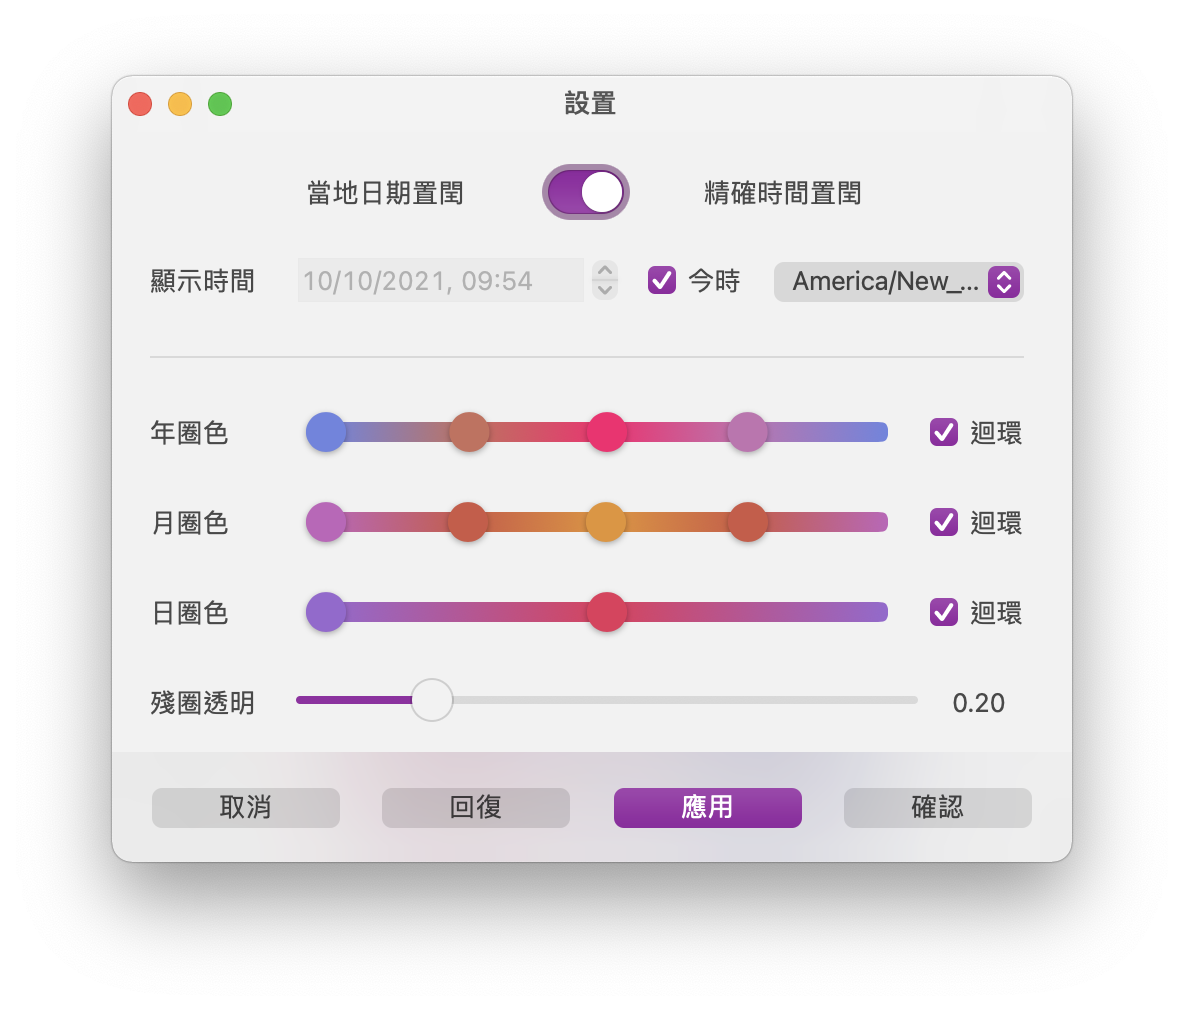
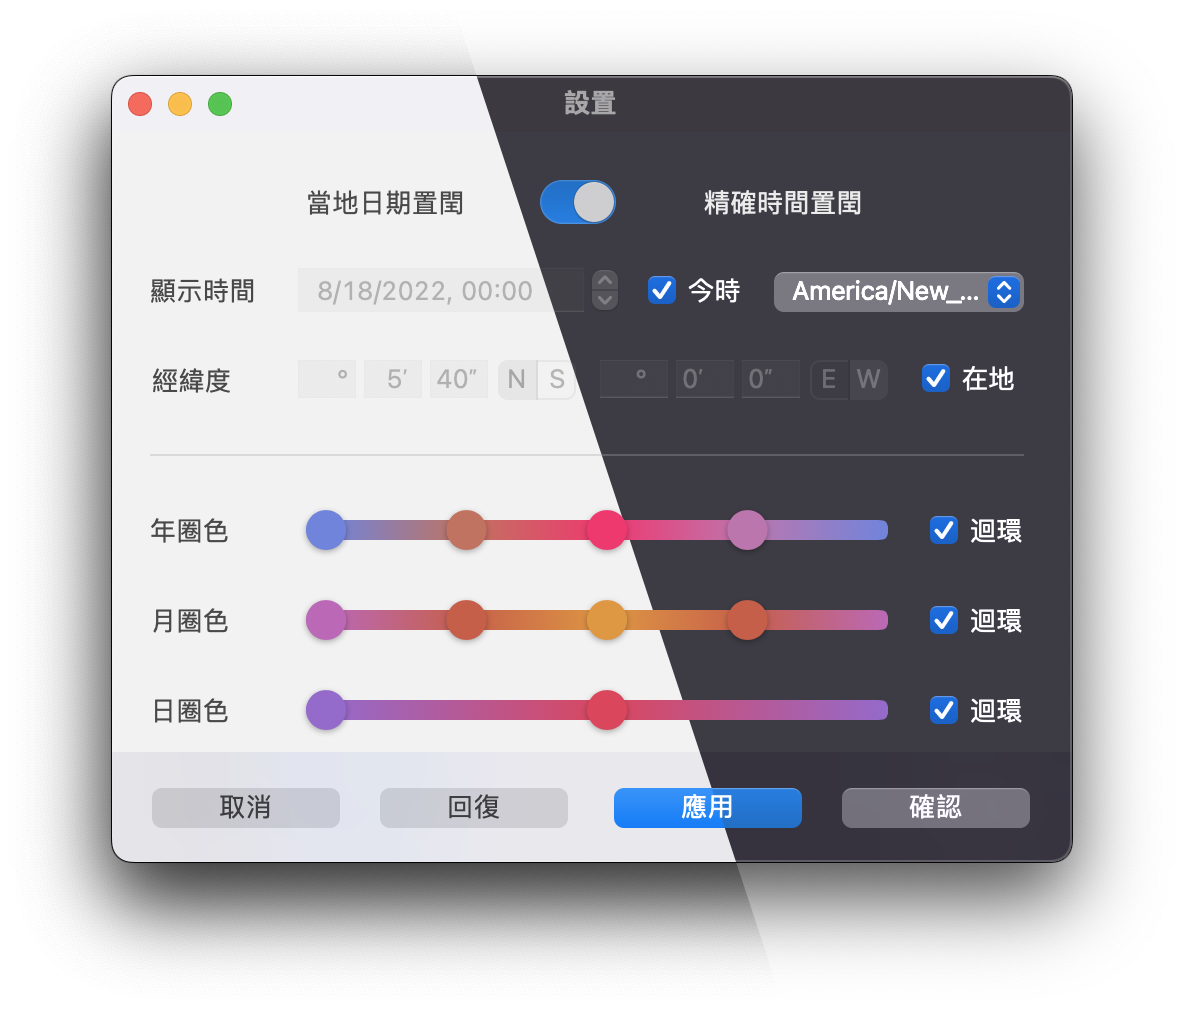
Update introduction

diff --git a/README.md b/README.md
@@ -11,6 +11,8 @@ The average length of a month is 29.53 days, and length of a year is 365.25, the
 
 Chinese time is consisted of Hours, Quarters and Subquarters. One Chinese hour is 2 hours, but they are divided into Small Hours, which corresponds to 1 hour. One Quarter is 100th of a day, which is 14.4 minutes. The 24 Small Hour and 100 Quarters consists of major time telling, by saying x Quarters after x Small Hour. One Quarter is further divided into 6 Subquarters, which is 2.4 minutes. Subquarter is the greatest common divisor of Small Hour and Quarter.
 
+Besides calendar, the positions of the 5 major solar planets plus the Moon on elliptical plane, plus sunrise, sunset, moonrise, moonset time are also important elements in Chinese calendar. These planet positions, especially Jupiter and Saturn, are traditionally used to take note of the year. Here, they are marked by colored squares on several rings.
+
 ## Screenshots
 
 <p align="middle">
@@ -19,13 +21,15 @@ Chinese time is consisted of Hours, Quarters and Subquarters. One Chinese hour i
 
 The circles from outermost to innermost are Year, Month, Day, Hour. Each will progress as time goes by. On the year ring, 24 Solar Terms and all New Moons and Full Moons are indicated by ticks. If any of these celestial event fall in a given month/day/hour, they are marked by a semi-sphese on the inner circles as well. At the center is the text description of the date and time.
 
-The Ecliptic positions of Mercury, Venus, Mars, Jupiter and Saturn are also shown as marks on the outer-most ring. The 5 planets, especially Jupyter, are important in telling the year.
+The Ecliptic positions of Mercury, Venus, Mars, Jupiter, Saturn and Moon are also shown as marks on the outer-most ring. Sunrise, sunset, and moonrise, moonset are marked in the 2 inner most rings. Geographic location is needed for this calculatioin, so the app will ask for permision upon first launch. If you feel unconfortable about reading location, you can also provide it manually.
 
 <p align="middle">
   <img src="/screenshots/config.png" alt="Configuration" title="Configuration" width="350"/>
 </p>
 
-Many UI elements are configurable, along with the displayed date and time, and timezone.
+Many UI elements are configurable, like the color of the rings and marks, along with the displayed date, time, location, and timezone.
+
+Location and timezone are **not** stored anywhere, while other configurations like the colors will be stored so that they can be used upon next launch.
 
 ## License
 
